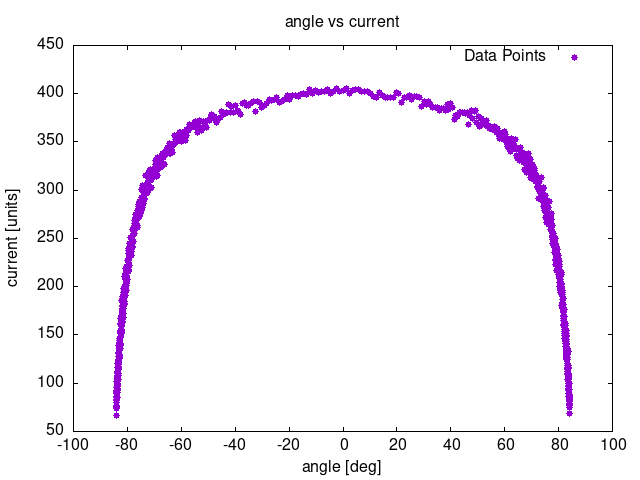
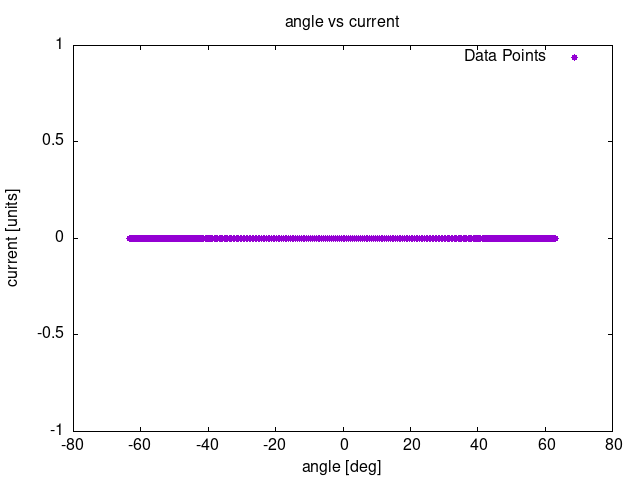
angles

diff --git a/sun-sensor-simulator/sun_sensor.cpp b/sun-sensor-simulator/sun_sensor.cpp
@@ -28,6 +28,7 @@ double linear_interpolation_rvw(std::vector<rvw_data> data, double value, int le
     return data.at(len - 1).responsivity;
 }
 
+
 std::vector<double> Sun_sensor::simulate(light_source * source, uint64_t particle_count){
 
     /*
@@ -41,7 +42,13 @@ std::vector<double> Sun_sensor::simulate(light_source * source, uint64_t particl
     std::vector<Particle> to_remove;
     std::vector<Particle>::iterator it;
     std::vector<Plane>::iterator it_diodes;
-    particles = source->generate_particles(particle_count);
+    double angle_x, angle_y;
+    Vector_3D sun_to_sensor;
+    sun_to_sensor =  source->position - this->slits_top.at(0).origin;
+    this->slits_top.at(0).get_directional_angles(sun_to_sensor, &angle_x, &angle_y);
+
+
+    particles = source->generate_particles(particle_count * cos(angle_x) * cos (angle_y));
 
     for (Plane slit : this->slits_top) {
         it = particles.begin();
@@ -72,15 +79,21 @@ std::vector<double> Sun_sensor::simulate(light_source * source, uint64_t particl
         double diode_current = 0;
         it = particles.begin();
         while(it != particles.end()) {
+            Vector_3D contact_point_G;
+            contact_point_G = this->diodes.at(i).calculate_point_of_contact(*it);
+            //printf("%f %f \n", contact_point_G.x, contact_point_G.y);
             int8_t ret;
             ret = this->diodes.at(i).particle_colission(&*it);
             if (ret == 0) {
-                count++;
                 double particle_responsivity = linear_interpolation_rvw(this->rvw, it->wavelength, this->rvw_len);
                 double current = particle_responsivity * it->power;
                 diode_current += current;
+                //printf("%f %f \n", it->position.x, it->position.y);
                 particles.erase(it);
-            } else ++it;
+            } else { 
+                ++it;
+                count++;
+            }
         }
         currents.push_back(diode_current);
     }
@@ -114,38 +127,80 @@ void Sun_sensor::read_rvw(){
     this->rvw_len = len;
 }
 
-int main(){
-    Sun_sensor ss;
-    ss.read_rvw("../ADPD2140");
-    ss.diodes.push_back(Plane(Vector_3D(5,0,0), Vector_3D(0,0,1), 5, 10));
-    ss.diodes.push_back(Plane(Vector_3D(-5,0,0), Vector_3D(0,0,1), 5, 10));
-    ss.slits_top.push_back(Plane(Vector_3D(0,0,0.5), Vector_3D(0,0,1), 10, 10));
-    ss.slits_top.at(0).n = 0.66;
-        
-    black_body bb;
-    bb.particle_enegery = 1;
-    bb.glass_planes = ss.slits_top;
-    bb.wavelength_max = 850;
-    bb.wavelength_min = 850;
-
-    double x = - 50;
-    double d = 5;
-
-    while (x <= 50){
-        bb.position = Vector_3D(x,0,d);
-
-        int64_t begin = NOW();
-        std::vector<double> currents = ss.simulate(&bb, 1000);
-        printf("%f %f \n",atan (x / d) * 57.2, currents.front() + currents.back());
-        int64_t end = NOW();
-        //printf("dt %f [ms] \n", (double) (end - begin) / MILLISECONDS);
-        x += 0.1;
-    }
-}
-
 
 ADPD2140::ADPD2140(Vector_3D position, Matrix_3D dcm_BN){
     this->position = position;
     this->dcm_BN = dcm_BN;
-    // todo
+    double to_mm = 1. / 1000; // to mm
+
+    // Diodes
+    // Define position in sensor frame and then shift to global frame
+    Vector_3D diode1_pos_G;
+    Vector_3D diode1_pos_B(- 0.5, 0.75, 0);
+    diode1_pos_B = diode1_pos_B * to_mm;
+    diode1_pos_G = position + dcm_BN * diode1_pos_B;
+
+    Vector_3D diode2_pos_G;
+    Vector_3D diode2_pos_B(0.5, 0.75, 0);
+    diode2_pos_B = diode2_pos_B * to_mm;
+    diode2_pos_G = position + dcm_BN * diode2_pos_B;
+
+    Vector_3D diode3_pos_G;
+    Vector_3D diode3_pos_B(-0.5, -0.75, 0);
+    diode3_pos_B = diode3_pos_B * to_mm;
+    diode3_pos_G = position + dcm_BN * diode3_pos_B;
+
+    Vector_3D diode4_pos_G;
+    Vector_3D diode4_pos_B(0.5, -0.75, 0);
+    diode4_pos_B = diode4_pos_B * to_mm;
+    diode4_pos_G = position + dcm_BN * diode4_pos_B;
+
+    Plane diode1(diode1_pos_G, dcm_BN, 0.5 * to_mm, 0.75 * to_mm); 
+    Plane diode2(diode2_pos_G, dcm_BN, 0.5 * to_mm, 0.75 * to_mm); 
+    Plane diode3(diode3_pos_G, dcm_BN, 0.5 * to_mm, 0.75 * to_mm); 
+    Plane diode4(diode4_pos_G, dcm_BN, 0.5 * to_mm, 0.75 * to_mm); 
+    this->diodes.push_back(diode1);
+    this->diodes.push_back(diode2);
+    this->diodes.push_back(diode3);
+    this->diodes.push_back(diode4);
+
+    //slit
+    double width = 1 * to_mm;
+    double hight = .01 * to_mm;
+    Vector_3D slit_B(0,0, 5 * to_mm);
+    Vector_3D slit_G;
+    slit_G = dcm_BN * slit_B + position;
+
+    this->slits_top.push_back(Plane(slit_G, dcm_BN, 2 * width, 1 * width, 0.));
+
+    this->read_rvw("../ADPD2140");
 }
+
+int main(){
+    Vector_3D position(0,0,0);
+    Matrix_3D dcm_BN;
+    dcm_BN = dcm_BN.I();
+
+    ADPD2140 adpd(position, dcm_BN);
+        
+    black_body bb;
+    bb.particle_enegery = 1;
+    bb.glass_planes = adpd.slits_top;
+    bb.wavelength_max = 850;
+    bb.wavelength_min = 850;
+
+    double x = - 10;
+    double d = 5;
+
+    while (x <= 10){
+        bb.position = Vector_3D(x,0,d);
+
+        int64_t begin = NOW();
+        std::vector<double> currents = adpd.simulate(&bb, 10);
+        printf("%f %f \n",atan (x / d) * 57.2, currents.at(0)+ currents.at(1) + currents.at(2) + currents.at(3));
+        int64_t end = NOW();
+        //printf("dt %f [ms] \n", (double) (end - begin) / MILLISECONDS);
+        x += 0.05;
+    }
+}
+

diff --git a/sun-sensor-simulator/plane.cpp b/sun-sensor-simulator/plane.cpp
@@ -23,11 +23,21 @@ Plane::Plane(Vector_3D origin, Matrix_3D dcm_BN, double size_x, double size_y){
 }
 
 Plane::Plane(Vector_3D origin, Matrix_3D dcm_BN, double size_x, double size_y, double n1, double n2){
-    Plane(origin, dcm_BN, size_x, size_y);
+    this->origin = origin;
+    this->normal_S = Vector_3D(0,0,1);
+    this->dcm_BN = dcm_BN;
+    this->normal_G = this->dcm_BN * this->normal_S;
+    this->size_x = size_x;
+    this->size_y = size_y;
     this->n = n1 / n2;
 }
 Plane::Plane(Vector_3D origin, Matrix_3D dcm_BN, double size_x, double size_y, double n){
-    Plane(origin, dcm_BN, size_x, size_y);
+    this->origin = origin;
+    this->normal_S = Vector_3D(0,0,1);
+    this->dcm_BN = dcm_BN;
+    this->normal_G = this->dcm_BN * this->normal_S;
+    this->size_x = size_x;
+    this->size_y = size_y;
     this->n = n;
 }
 
@@ -112,3 +122,17 @@ int8_t Plane::particle_colission(Particle *particle){
 //    plane.particle_colission(&particle);
 //}
 
+void Plane::get_directional_angles(Vector_3D direction, double *x, double *y){
+    /*
+     * To get the angles we firts project to the local frame and then decompose to the x and y componennts
+     */
+
+    Vector_3D part_x, part_y, direction_B;
+    direction_B = this->dcm_BN * direction;
+    part_x.x = direction_B.x;
+    part_x.z = direction_B.z;
+    part_y.y = direction_B.y;
+    part_y.z = direction_B.z;
+    *x = this->normal_S.calculate_angle(part_x);
+    *y = this->normal_S.calculate_angle(part_y);
+}

diff --git a/sun-sensor-simulator/plane.h b/sun-sensor-simulator/plane.h
@@ -19,6 +19,7 @@ class Plane {
 
         Vector_3D calculate_point_of_contact(Particle particle);
         int8_t particle_colission(Particle *particle);
+        void get_directional_angles(Vector_3D direction, double *x, double *y);
         
 
 

diff --git a/sun-sensor-simulator/sun_sensor.h b/sun-sensor-simulator/sun_sensor.h
@@ -30,7 +30,7 @@ class Sun_sensor {
         void read_rvw();
 };
 
-class ADPD2140 : Sun_sensor {
+class ADPD2140 : public Sun_sensor {
 
     public: 
         ADPD2140(Vector_3D position, Matrix_3D dcm_BN);
